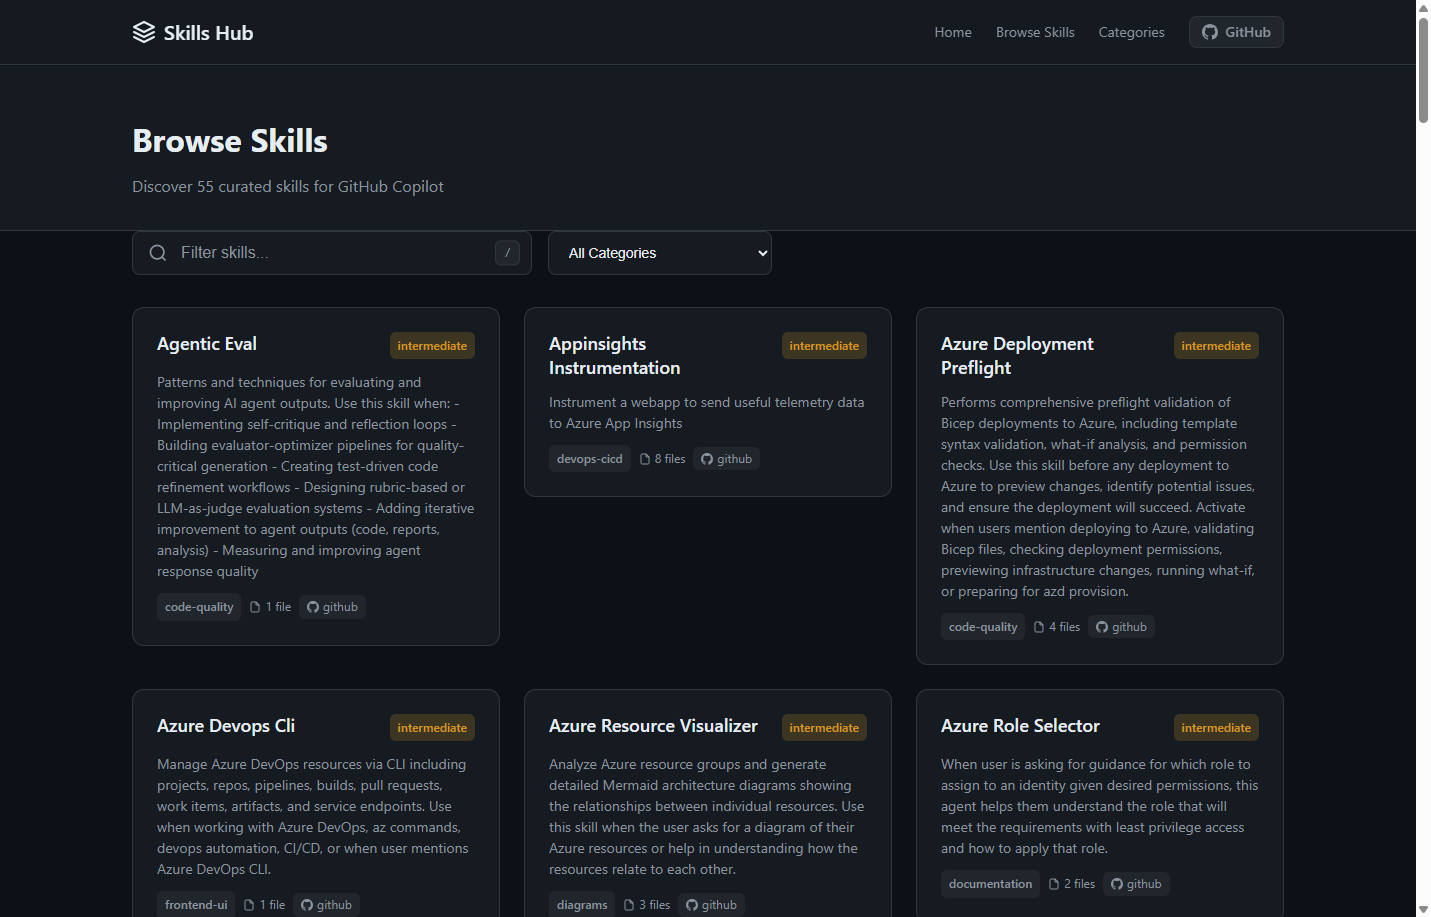
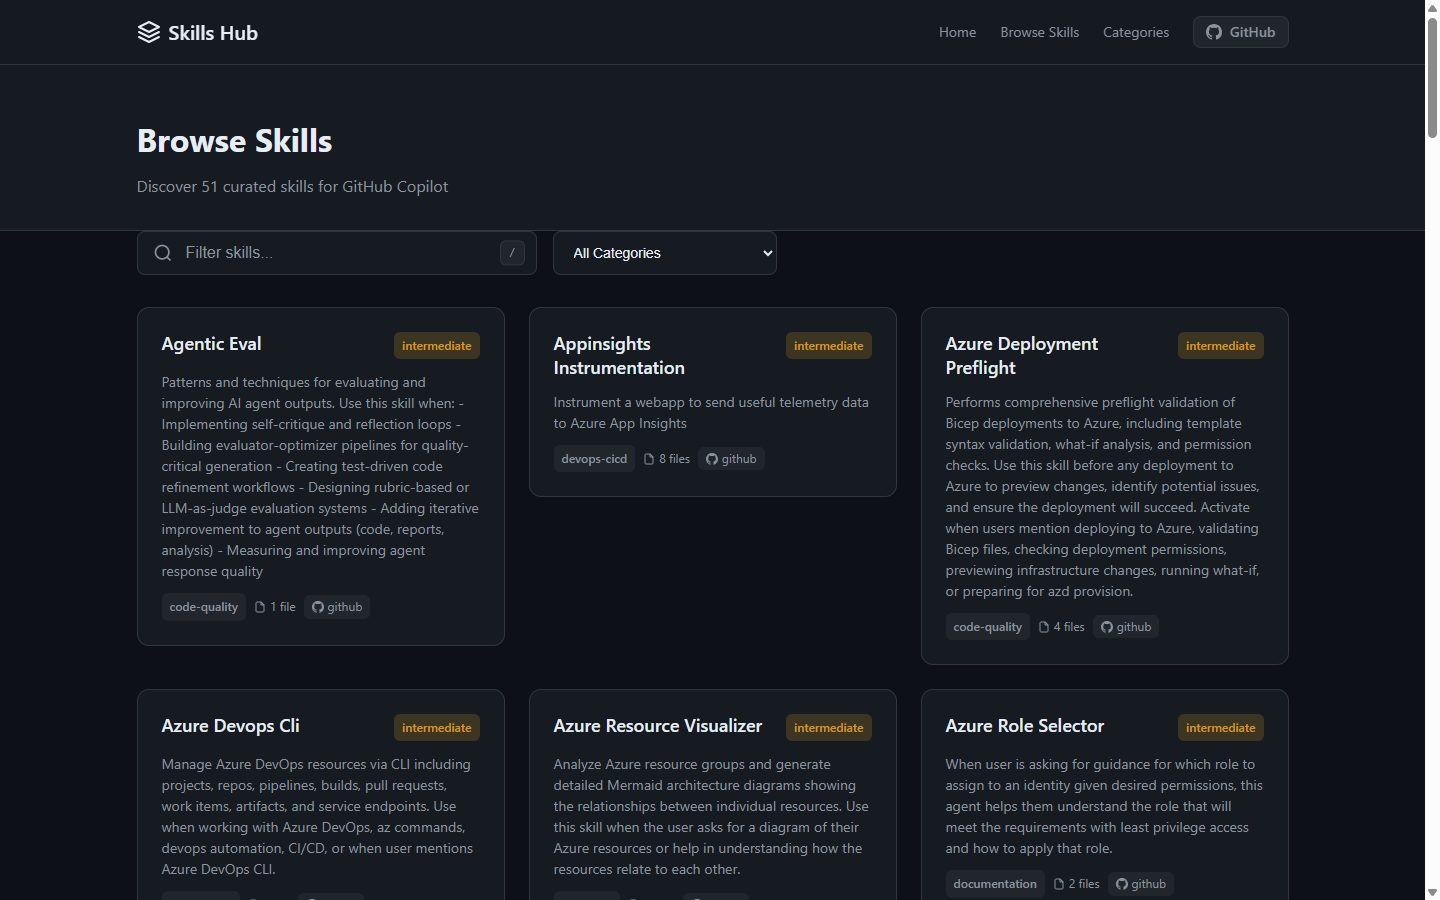
Add initial Skills Hub catalog post and update images for homepage, categories, and skill details

diff --git a/_posts/2026-02-06-skills-hub-curated-catalog-discovering-installing-ai-coding-skills.md b/_posts/2026-02-06-skills-hub-curated-catalog-discovering-installing-ai-coding-skills.md
@@ -27,13 +27,13 @@ As the ecosystem of GitHub Copilot skills has grown, a few challenges have emerg
 
 Skills Hub is a curated, open-source catalog website for discovering, browsing, and installing GitHub Copilot agent skills. It aggregates skills from multiple sources into a single searchable hub with one-click download.
 
-The site currently catalogs **55+ skills** from **3 source repositories**, organized into **10+ categories**.
+The site currently catalogs **51 skills** from **3 source repositories**, organized into **8 categories**.
 
 ## Key Features
 
 ### Unified Skill Catalog
 
-Skills from `github/awesome-copilot`, `anthropics/skills`, and `modelcontextprotocol/ext-apps` are aggregated into a single browsable interface. Each skill displays its description, category, source repository, file count, and all included files.
+Skills from `github/awesome-copilot`, `anthropics/skills`, and `modelcontextprotocol/ext-apps` are aggregated into a single browsable interface. Only skills with redistributable licenses (MIT, Apache-2.0, BSD, ISC, CC-BY-4.0) are included. Each skill displays its description, category, source repository, file count, and all included files.
 
 ### Category-Based Browsing
 
@@ -51,6 +51,8 @@ Skills are organized into categories that cover the full development lifecycle:
 | DevOps & CI/CD | Pipelines, Docker, Kubernetes |
 | Security | Audits, vulnerabilities, secure coding |
 | Data & Analytics | Data pipelines, SQL, analytics |
+| Office Documents | Word, Excel, PowerPoint, PDF |
+| MCP Development | Model Context Protocol development |
 
 Each category has its own page with filtered listings, and the homepage features visual category cards for quick navigation.
 
@@ -114,7 +116,8 @@ const SOURCES = [
     path: path.join(SOURCES_DIR, 'awesome-copilot', 'skills'),
     repo: 'https://github.com/github/awesome-copilot',
     author: 'github',
-    defaultLicense: 'MIT'
+    defaultLicense: 'MIT',
+    licenseNotice: 'MIT License — Copyright GitHub, Inc.'
   },
   {
     id: 'anthropics-skills',
@@ -122,7 +125,8 @@ const SOURCES = [
     path: path.join(SOURCES_DIR, 'anthropics-skills', 'skills'),
     repo: 'https://github.com/anthropics/skills',
     author: 'anthropic',
-    defaultLicense: 'Proprietary'
+    defaultLicense: 'Apache-2.0',
+    licenseNotice: 'Licensed under the Apache License, Version 2.0.'
   },
   {
     id: 'mcp-ext-apps',
@@ -130,7 +134,8 @@ const SOURCES = [
     path: path.join(SOURCES_DIR, 'mcp-ext-apps', 'plugins', 'mcp-apps', 'skills'),
     repo: 'https://github.com/modelcontextprotocol/ext-apps',
     author: 'modelcontextprotocol',
-    defaultLicense: 'MIT'
+    defaultLicense: 'MIT',
+    licenseNotice: 'Licensed under Apache-2.0 (new contributions) / MIT (prior contributions).'
   }
 ];
 ```
@@ -139,9 +144,11 @@ For each skill folder, the script:
 
 1. Reads and parses the SKILL.md file (frontmatter + content)
 2. Recursively collects all files in the skill folder
-3. Auto-categorizes the skill based on keywords in its name and description
-4. Generates tags from the content
-5. Builds a structured skill object with all metadata and file contents
+3. Detects the license from LICENSE files in the skill folder
+4. Skips skills with non-redistributable licenses (e.g., proprietary or "all rights reserved")
+5. Auto-categorizes the skill based on keywords in its name and description
+6. Generates tags from the content
+7. Builds a structured skill object with all metadata and file contents
 
 The output is a single `skills.json` file that Astro uses to generate all pages at build time.
 
@@ -151,15 +158,18 @@ Skills are automatically categorized using keyword matching:
 
 ```javascript
 const CATEGORY_KEYWORDS = {
-  'git-version-control': ['git', 'commit', 'branch', 'github', 'version control'],
-  'code-quality': ['refactor', 'lint', 'quality', 'review', 'clean code'],
-  'documentation': ['doc', 'readme', 'prd', 'requirements', 'markdown'],
-  'testing': ['test', 'e2e', 'unit test', 'qa', 'playwright'],
-  'api-backend': ['api', 'rest', 'graphql', 'backend', 'sdk'],
-  'frontend-ui': ['frontend', 'ui', 'react', 'css', 'design'],
-  'devops-cicd': ['deploy', 'ci', 'cd', 'docker', 'kubernetes', 'terraform'],
+  'git-version-control': ['git', 'commit', 'branch', 'github', 'version control', 'gh-cli', 'contribution'],
+  'code-quality': ['refactor', 'lint', 'quality', 'review', 'clean code', 'vscode-ext'],
+  'documentation': ['doc', 'readme', 'prd', 'requirements', 'markdown', 'meeting', 'internal-comms'],
+  'diagrams': ['diagram', 'excalidraw', 'plantuml', 'mermaid', 'visualization', 'circuit'],
+  'testing': ['test', 'e2e', 'unit test', 'qa', 'playwright', 'chrome-devtools', 'webapp-testing'],
+  'api-backend': ['api', 'rest', 'graphql', 'backend', 'sdk', 'nuget'],
+  'frontend-ui': ['frontend', 'ui', 'react', 'css', 'design', 'canvas', 'image', 'brand', 'theme'],
+  'devops-cicd': ['deploy', 'ci', 'cd', 'docker', 'kubernetes', 'terraform', 'azure', 'appinsights'],
   'security': ['security', 'auth', 'rbac', 'role', 'permission'],
-  // ... more categories
+  'data-analytics': ['data', 'analytics', 'sql', 'powerbi', 'snowflake'],
+  'office-documents': ['docx', 'xlsx', 'pptx', 'pdf', 'word', 'excel', 'powerpoint'],
+  'mcp-development': ['mcp', 'model context protocol', 'skill-creator', 'make-skill']
 };
 ```
 
